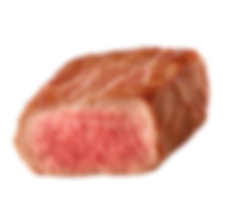
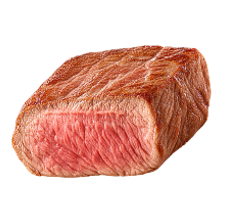
a

Changed region(s): [[0.0289, 0.1927, 0.8967, 0.8257]]

diff --git a/index.html b/index.html
@@ -28,7 +28,7 @@ img{user-select:none;-webkit-user-drag:none}
 @media (max-width: 1279px), (max-height: 759px){[data-adopt-pal="1"],[data-adopt-pal="3"]{display:none}}
 @media (max-width: 900px){[data-adopt-pal="0"]{left:3% !important;top:26% !important;width:84px !important}[data-adopt-pal="2"]{right:3% !important;top:28% !important;width:80px !important}[data-adopt-comp]{width:min(34vh, 50vw, 540px) !important}}
 @media (max-width: 900px){[data-nutri-copy]{align-items:center !important;text-align:center}[data-nutri-grid]{grid-template-columns:minmax(0, 1fr) !important;margin-top:96px !important;row-gap:56px !important}[data-nutri-copy]{justify-self:center !important}[data-nutri-title]{font-size:min(calc((100vw - 56px) / 5.9), 96px) !important}[data-nutri-art]{width:calc(100% + 64px) !important;margin-left:-40px !important}}
-@media (max-width: 900px){[data-bowl-copy]{left:20px !important;right:20px;top:auto !important;bottom:max(24px, 4vh);transform:none !important;width:auto !important;text-align:center}[data-bowl-copy] [data-line]{margin-left:auto !important;margin-right:auto !important}[data-bowl-bens]{display:none !important}[data-bowl-mgrid]{display:grid !important;grid-template-columns:none !important;grid-auto-flow:column;grid-auto-columns:minmax(0, 1fr);gap:10px 16px !important}[data-bowl-mgrid] p{font-size:12px !important}[data-bowl-indicator]{display:none !important}[data-bowl-copy] h2+p,[data-bowl-copy-mix] h2+p{margin-bottom:4px !important}[data-bowl-copy] p+p,[data-bowl-copy-mix] p+p{margin-top:22px !important}[data-bowl-copy-mix]{left:20px !important;right:20px;top:auto !important;bottom:max(64px, 10vh);transform:none !important;width:auto !important}}
+@media (max-width: 900px){[data-bowl-copy]{left:20px !important;right:20px;top:auto !important;bottom:max(24px, 4vh);transform:none !important;width:auto !important;text-align:center}[data-bowl-copy] [data-line]{margin-left:auto !important;margin-right:auto !important}[data-bowl-bens]{display:none !important}[data-bowl-mgrid]{margin-top:clamp(40px, 6vh, 56px) !important;display:grid !important;grid-template-columns:none !important;grid-auto-flow:column;grid-auto-columns:minmax(0, 1fr);gap:10px 16px !important}[data-bowl-mgrid] p{font-size:12px !important}[data-bowl-indicator]{display:none !important}[data-bowl-copy] h2+p,[data-bowl-copy-mix] h2+p{margin-bottom:4px !important}[data-bowl-copy] p+p,[data-bowl-copy-mix] p+p{margin-top:22px !important}[data-bowl-copy-mix]{left:20px !important;right:20px;top:auto !important;bottom:max(64px, 10vh);transform:none !important;width:auto !important}}
 @media (min-width: 1101px){[data-fl-reveal] [data-fl-frame]{position:fixed !important}[data-fl-reveal][data-fl-past] [data-fl-frame]{position:absolute !important}}
 @media (max-width: 1100px){[data-fl-par-l]{left:calc(20 * var(--fu)) !important}}
 @media (max-width: 1100px){[data-flavors]{--navh:0px;--H:max(100svh, calc(250px + 647 * (100vw - 16px) / 840 + 280px + var(--navh)));height:var(--H) !important}#sabores{--navh:56px}[data-fl-frame]{left:0 !important;top:0 !important;width:100% !important;height:100% !important;transform:none !important}[data-fl-vis]{--fu:calc((100vw - 16px) / 840);left:8px !important;top:calc((var(--H) - 120px - var(--navh)) / 2 - 590 * (100vw - 16px) / 840) !important}[data-fl-copy]{left:20px !important;right:20px;top:56px !important;width:auto !important;align-items:center !important;text-align:center}[data-fl-copy] [data-line]{max-width:none !important}[data-fl-bens]{left:20px !important;right:20px;width:auto !important;top:auto !important;bottom:calc(36px + var(--navh)) !important}[data-fl-benlabel]{text-align:center}[data-fl-benlist]{display:grid !important;grid-template-columns:repeat(2, minmax(0, 1fr));gap:16px 12px !important}[data-fl-nav]{top:auto !important;bottom:22px}[data-fl-nav] [data-fl-count]{display:none !important}[data-fl-nav]>div{gap:12px !important}[data-fl-nav] button[data-fl-prev],[data-fl-nav] button[data-fl-next]{width:36px !important;height:36px !important}[data-fl-benlist]{gap:18px 10px !important}[data-fl-benlist] [data-ben-item]{gap:8px !important;font-size:14px !important}[data-fl-copy] h2 br{display:none}[data-fl-copy] h2{font-size:min(34px, calc((100vw - 40px) / 10)) !important;white-space:nowrap}[data-fl-word]{font-size:calc(200 * var(--fu)) !important;top:calc(224 * var(--fu)) !important}#sabores-esterilizados [data-fl-word]{font-size:calc(140 * var(--fu)) !important;top:calc(289 * var(--fu)) !important}}
@@ -36,7 +36,7 @@ img{user-select:none;-webkit-user-drag:none}
 @media (max-width: 700px){[data-footer-bottom]{flex-direction:column-reverse !important;align-items:center !important;justify-content:center !important;gap:24px !important;text-align:center}[data-backtop]{flex-direction:column-reverse !important;gap:10px !important}}
 @media (max-width: 820px){[data-hero-title]{font-size:36px !important;margin-top:28px !important}[data-intro="logo"]{scale:0.9}}
 @media (max-width: 819px), (max-aspect-ratio: 105/100){[data-hero] [data-food]:not([data-mkeep]){display:none}[data-hero] [data-food]>*{scale:0.85}[data-hero] [data-food][data-mkeep="g"]>*{scale:1.35}[data-hero-can="l"]{transform:translateX(278px)}[data-hero-can="r"]{transform:translateX(-316px)}}
-@media (max-width: 1100px){[data-flavors]{--sab:env(safe-area-inset-bottom, 0px);--Hmin:calc(210px + 647 * (100vw - 16px) / 840 + 250px + var(--navh) + var(--sab));--H:max(100svh, var(--Hmin)) !important;--E:max(0px, calc(100svh - var(--Hmin)))}[data-fl-copy]{top:calc(56px + 0.3 * var(--E)) !important}[data-fl-bens]{bottom:calc(36px + var(--navh) + var(--sab) + 0.3 * var(--E)) !important}[data-fl-vis]{left:calc(8px + 4.5vw) !important}[data-fl-word]{translate:-4.5vw 0}[data-fl-benlabel]{display:none !important}[data-fl-go]{position:absolute;left:0;right:0;justify-content:center;margin:0 !important;top:calc((var(--H) - 120px - var(--navh)) / 2 + 320 * (100vw - 16px) / 840 - 56px - 0.3 * var(--E))}[data-fl-copy]{bottom:auto}[data-fl-nav]{bottom:calc(22px + var(--sab)) !important}}
+@media (max-width: 1100px){[data-flavors]{--sab:env(safe-area-inset-bottom, 0px);--Hmin:calc(210px + 647 * (100vw - 16px) / 840 + 250px + var(--navh) + var(--sab));--H:max(100svh, var(--Hmin)) !important;--E:max(0px, calc(100svh - var(--Hmin)))}[data-fl-copy]{top:calc(56px + 0.3 * var(--E)) !important}[data-fl-bens]{bottom:calc(36px + var(--navh) + var(--sab) + 0.3 * var(--E)) !important}[data-fl-vis]{left:calc(8px + 4.5vw) !important}[data-fl-word]{translate:-4.5vw 0}#sabores [data-fl-nav]{flex-direction:row !important;gap:6px !important}#sabores [data-fl-nav] [data-fl-count]{display:block !important;order:1;font-size:12px !important;min-width:96px;text-align:center}#sabores [data-fl-nav]>div{display:contents !important}#sabores [data-fl-nav] [data-fl-prev]{order:0}#sabores [data-fl-nav] [data-fl-next]{order:2}#sabores [data-fl-nav] [data-fl-prev],#sabores [data-fl-nav] [data-fl-next]{width:36px !important;height:36px !important;background:transparent !important;color:#00326E !important}#sabores [data-fl-nav] [data-fl-dot]{display:none !important}[data-fl-benlabel]{display:none !important}[data-fl-go]{position:absolute;left:0;right:0;justify-content:center;margin:0 !important;top:calc((var(--H) - 120px - var(--navh)) / 2 + 320 * (100vw - 16px) / 840 - 56px - 0.3 * var(--E))}[data-fl-copy]{bottom:auto}[data-fl-nav]{bottom:calc(22px + var(--sab)) !important}}
 @media (max-width: 900px){[data-adopt-pal="1"],[data-adopt-pal="3"]{display:block !important}[data-adopt-pal="0"]{left:3% !important;top:26% !important;width:70px !important}[data-adopt-pal="1"]{left:4% !important;top:41% !important;width:64px !important}[data-adopt-pal="2"]{right:3% !important;left:auto !important;top:28% !important;width:66px !important}[data-adopt-pal="3"]{right:4% !important;left:auto !important;top:43% !important;width:68px !important}[data-adopt-comp]{width:min(28vh, 42vw, 440px) !important}}
 [data-fish-scene="mobile"]{visibility:hidden !important}
 @media (min-width: 901px){[data-benefit-first]{left:calc(-1 * clamp(12px, 1.4vw, 28px))}}
@@ -150,8 +150,8 @@ div:has(> [data-benefit]){margin-top:-4px !important}@media (max-width: 820px){d
           <div data-depth="1.15" data-rot="6" data-food="1" data-cx="102" data-cy="738" data-mx="763" data-my="-148" data-mkeep="1" style="position:absolute; left:92px; top:728px; width:20px; height:20px; z-index:7;">
             <div data-intro="food" style="width:100%; height:100%;"><div data-float="7" style="width:100%; height:100%; border-radius:50%; background:radial-gradient(circle at 35% 30%, #C9EE7E 0%, #6DB436 45%, #3D7B1C 100%);"></div></div>
           </div>
-          <div data-depth="1.7" data-rot="8" data-food="1" data-cx="50" data-cy="460" data-mx="335" data-my="-15" data-mkeep="1" style="position:absolute; left:-61px; top:350px; width:242px; z-index:8;">
-            <div data-intro="food"><img data-float="12" data-float-rot="4" src="assets/food/carne.png" alt="" draggable="false" style="display:block; width:100%; height:auto;"></div>
+          <div data-depth="1.7" data-rot="8" data-food="1" data-cx="50" data-cy="460" data-mx="335" data-my="-15" data-mkeep="1" style="position:absolute; left:-37px; top:366px; width:194px; z-index:8;">
+            <div data-intro="food"><img data-float="12" data-float-rot="4" src="assets/food/carne.webp" alt="" draggable="false" style="display:block; width:100%; height:auto;"></div>
           </div>
         </div>
 

diff --git a/src/lib/bowl3d.js b/src/lib/bowl3d.js
@@ -29,7 +29,8 @@ const SHADOW = 0.7;
 // escala 1 → 1.3 y queda apenas recortado abajo. Empieza un poco después del umbral para que
 // primero salga el texto de Húmedo; el texto de Mix entra al final del viaje.
 const MIX = [0.7, 0.84];
-const MIX_ZOOM = 0.1, MIX_X = 0, MIX_Y = 627 / 995 - 0.5;
+// desktop: crece menos y baja un poco para no apretar el texto de arriba
+const MIX_ZOOM = 0.03, MIX_X = 0, MIX_Y = 655 / 995 - 0.5;
 const MIX_TEXT_AT = 0.94;
 // al salir de la sección el plato vuelve a su pose inicial (diagonal, centrado, logo visible)
 const EXIT = 0.97;
@@ -319,7 +320,7 @@ export function createBowlScene(root, { reduce = false, follow = 0.08, smooth: s
   // tope por escena: antes de pasar de Seco→Húmedo, Húmedo→Mix y Mix→salida el scroll se detiene un instante
   // en la escena completa (aunque se scrollee rápido). Rueda: vía smooth-scroll; táctil: corta la inercia.
   const STOPS = [STEPS[0] - 0.035, STEPS[1] - 0.035, 0.905];
-  const HOLD = 420, REARM = 0.05;
+  const HOLD = 850, REARM = 0.05; // pausa marcada: se distinguen los 3 tipos aunque se scrollee rápido
   let holdUntil = 0, holdY = 0, used = -1;
   const stopY = i => scrollY + section.getBoundingClientRect().top + STOPS[i] * (section.offsetHeight - innerHeight);
   const crossed = (from, to) => {
@@ -373,12 +374,12 @@ export function createBowlScene(root, { reduce = false, follow = 0.08, smooth: s
     rearm(from);
     const i = crossed(from, y);
     if (i < 0) return;
-    used = i; touchLock = now + 320;
+    used = i; touchLock = now + 700;
     const root = document.documentElement, prev = root.style.overflow;
     root.style.overflow = 'hidden'; // corta la inercia
     scrollTo({ top: stopY(i), behavior: 'instant' });
     lastY = scrollY;
-    setTimeout(() => { root.style.overflow = prev; }, 320);
+    setTimeout(() => { root.style.overflow = prev; }, 700);
   };
   addEventListener('scroll', onNativeScroll, { passive: true });
 
@@ -590,7 +591,7 @@ export function createBowlScene(root, { reduce = false, follow = 0.08, smooth: s
         const fit = t => { const top0 = 76, a = Math.max(120, t - 32 - top0); const sz = Math.min((W - 110) / 0.47, a / 0.47); return [sz, top0 + a / 2 + 0.06 * sz]; }; // +6%: el cuadro tiene más aire arriba que abajo
         const [f0, g0] = fit(mTops[0] || H * 0.5), [s1, y1] = fit(mTops[1] || H * 0.7);
         // seco/húmedo: un poco más pequeño y más arriba
-        const s0 = f0 * 0.9, y0 = g0 - f0 * 0.06;
+        const s0 = f0 * 0.9, y0 = g0 - f0 * 0.09;
         size = s0 + (s1 - s0) * mz; py = y0 + (y1 - y0) * mz;
       }
       else {

diff --git a/src/lib/flavors.js b/src/lib/flavors.js
@@ -38,6 +38,13 @@ export function createFlavors(root, opts = {}) {
       }
       top += h;
     }
+    // última etapa (Esterilizados): al salir hacia la tienda, si aún se ve más de la mitad, vuelve a quedar entera
+    const last = secs[secs.length - 1], h = last.offsetHeight, a = top + h - ih, y = scrollY;
+    if (y > a + 2 && y < a + ih * 0.5) {
+      snapping = true;
+      scrollToY(opts.smooth, a, 380);
+      setTimeout(() => { snapping = false; }, 440);
+    }
   };
   const snap = () => {
     if (touching) return;
@@ -299,7 +306,7 @@ function initFlavors(sec, { reduce = false, smooth = null } = {}, withEdge = tru
   dots.forEach((d, k) => on(d, 'click', framed(() => go(k))));
   on(sec, 'keydown', e => { if (e.key === 'ArrowRight') next(); if (e.key === 'ArrowLeft') prev(); });
   // autoplay cada 5 s (solo en la etapa con data-fl-autoplay): se pausa con hover, fuera de vista o tras interactuar
-  if (!reduce && n > 1 && sec.hasAttribute('data-fl-autoplay')) {
+  if (false && !reduce && n > 1 && sec.hasAttribute('data-fl-autoplay')) { // autoplay desactivado
     let inView = false, hover = false, last = performance.now();
     const io = new IntersectionObserver(([e]) => { inView = e.intersectionRatio > 0.6; last = performance.now(); }, { threshold: [0, 0.6, 1] });
     io.observe(sec);

diff --git a/src/config/layout.js b/src/config/layout.js
@@ -19,7 +19,8 @@ export const BLOCKS = {
   clusterTop: 375,     // borde superior visual de los productos ([data-products]: +40u y escala 1.03)
   clusterBottom: 1107, // base de los empaques (queda bajo el arco)
   clusterCenterX: 615,
-  clusterCenterY: 640
+  clusterCenterY: 640,
+  bagCenterX: 642     // centro visual de la bolsa central (mobile la centra en pantalla)
 };
 
 export const STAGE = {
@@ -97,7 +98,7 @@ function mobileLayout(vw, vh) {
     u, top: 0, width: m.width,
     logo: { x: cx, y: logoY, s: m.logoScale },
     copy: { x: cx, y: logoY + logoH + m.gapLogoCopy, s: m.copyScale },
-    cluster: { x: cx - BLOCKS.clusterCenterX * c, y: clY, s: c },
+    cluster: { x: cx - BLOCKS.bagCenterX * c, y: clY, s: c },
     highlightGap: ((BLOCKS.clusterBottom - FOLD) * c + ARC_GAP) * u
   };
 }
